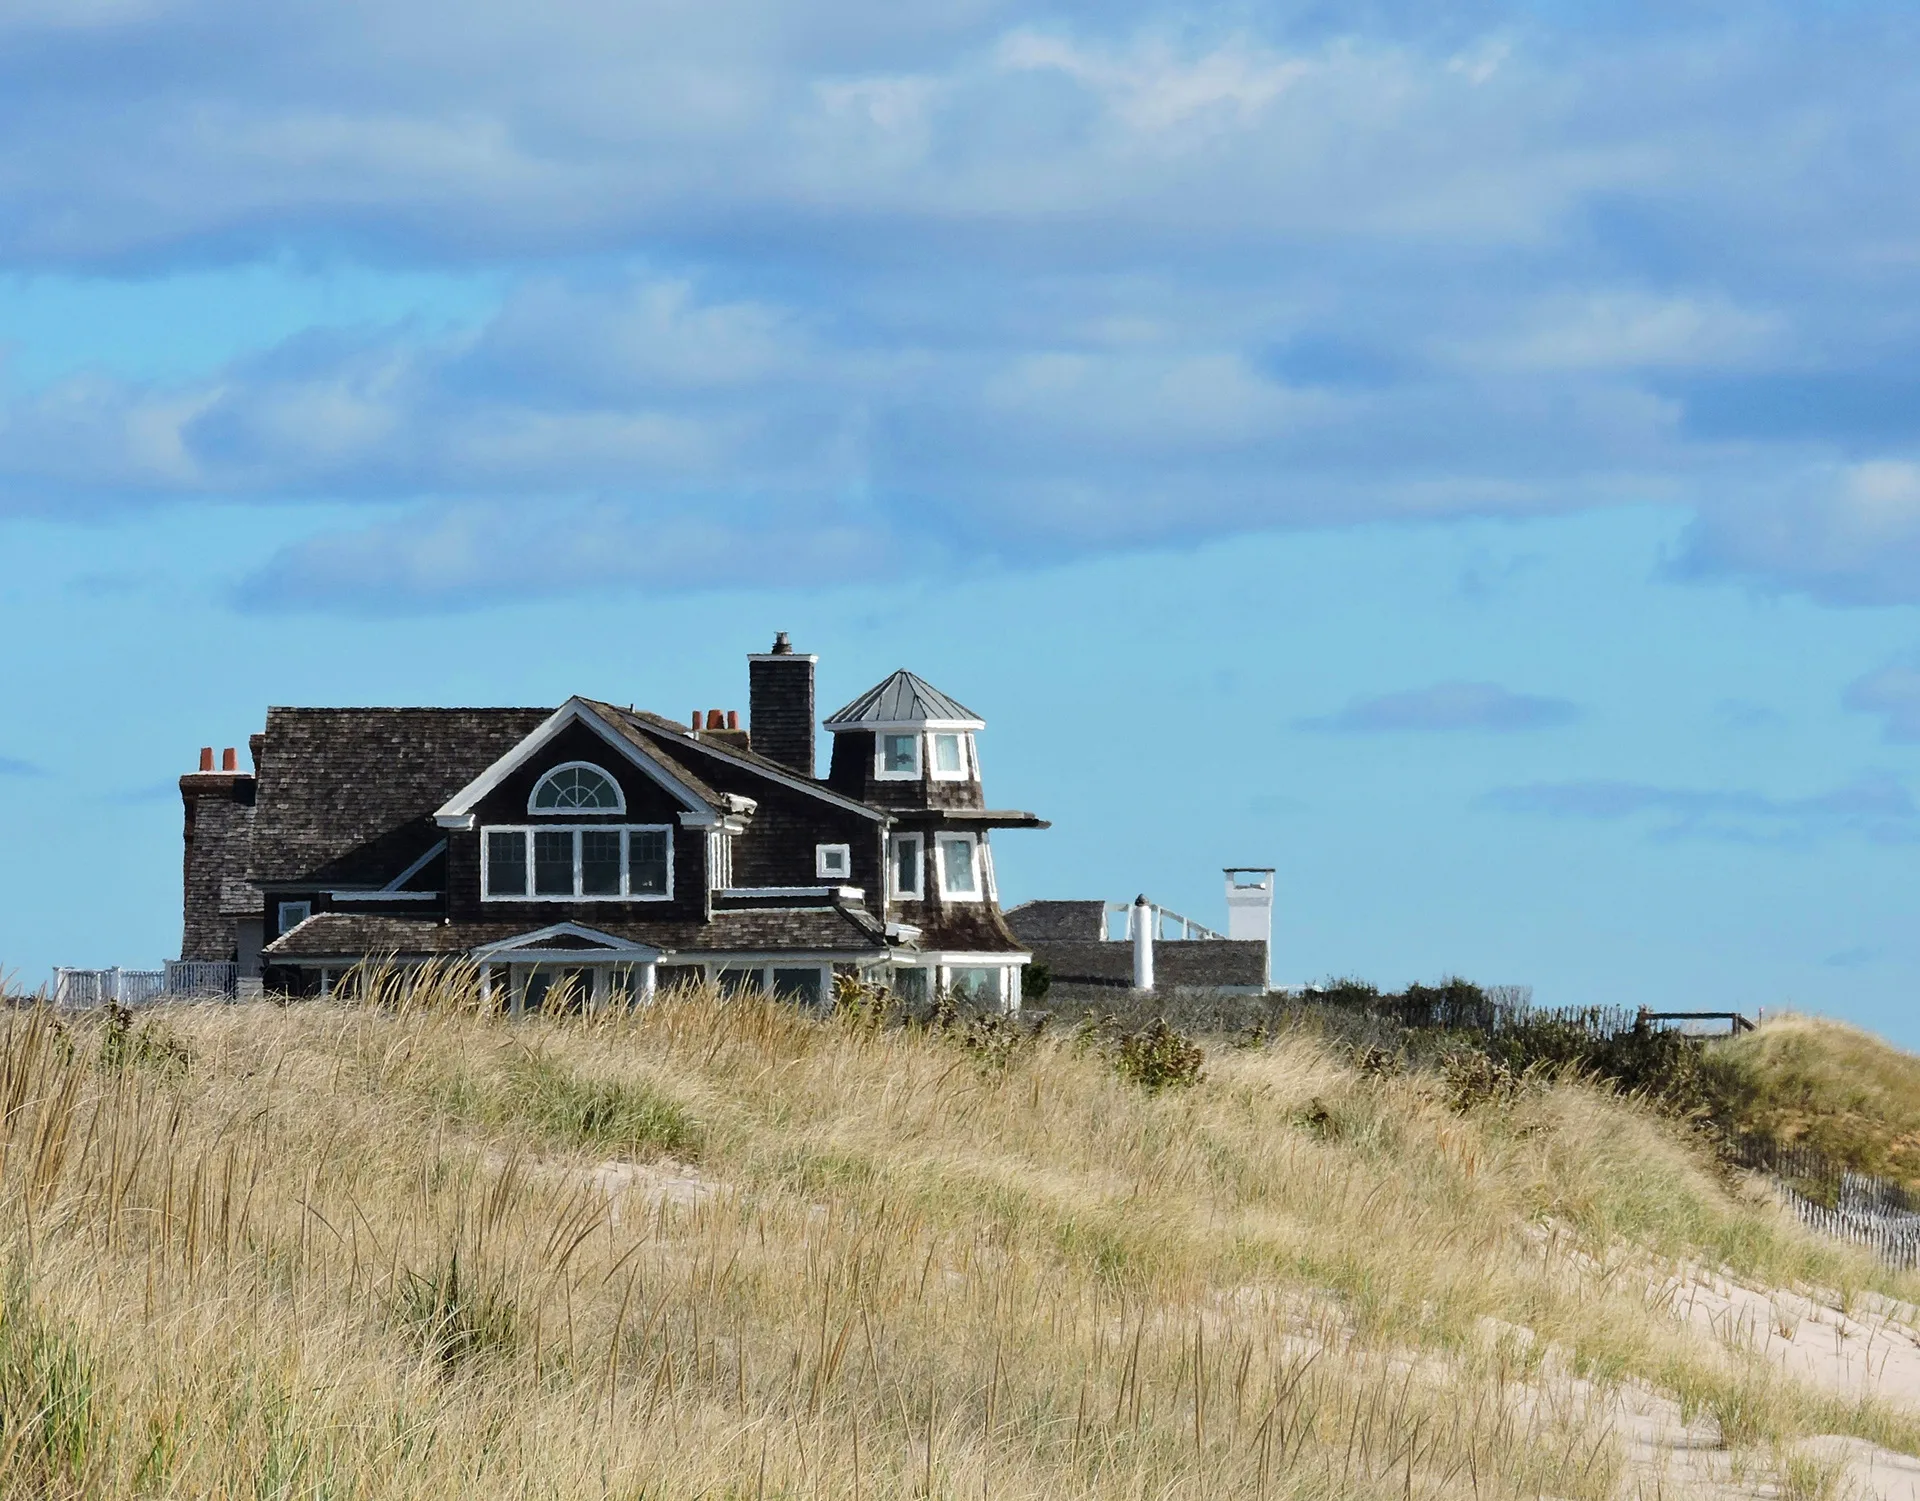
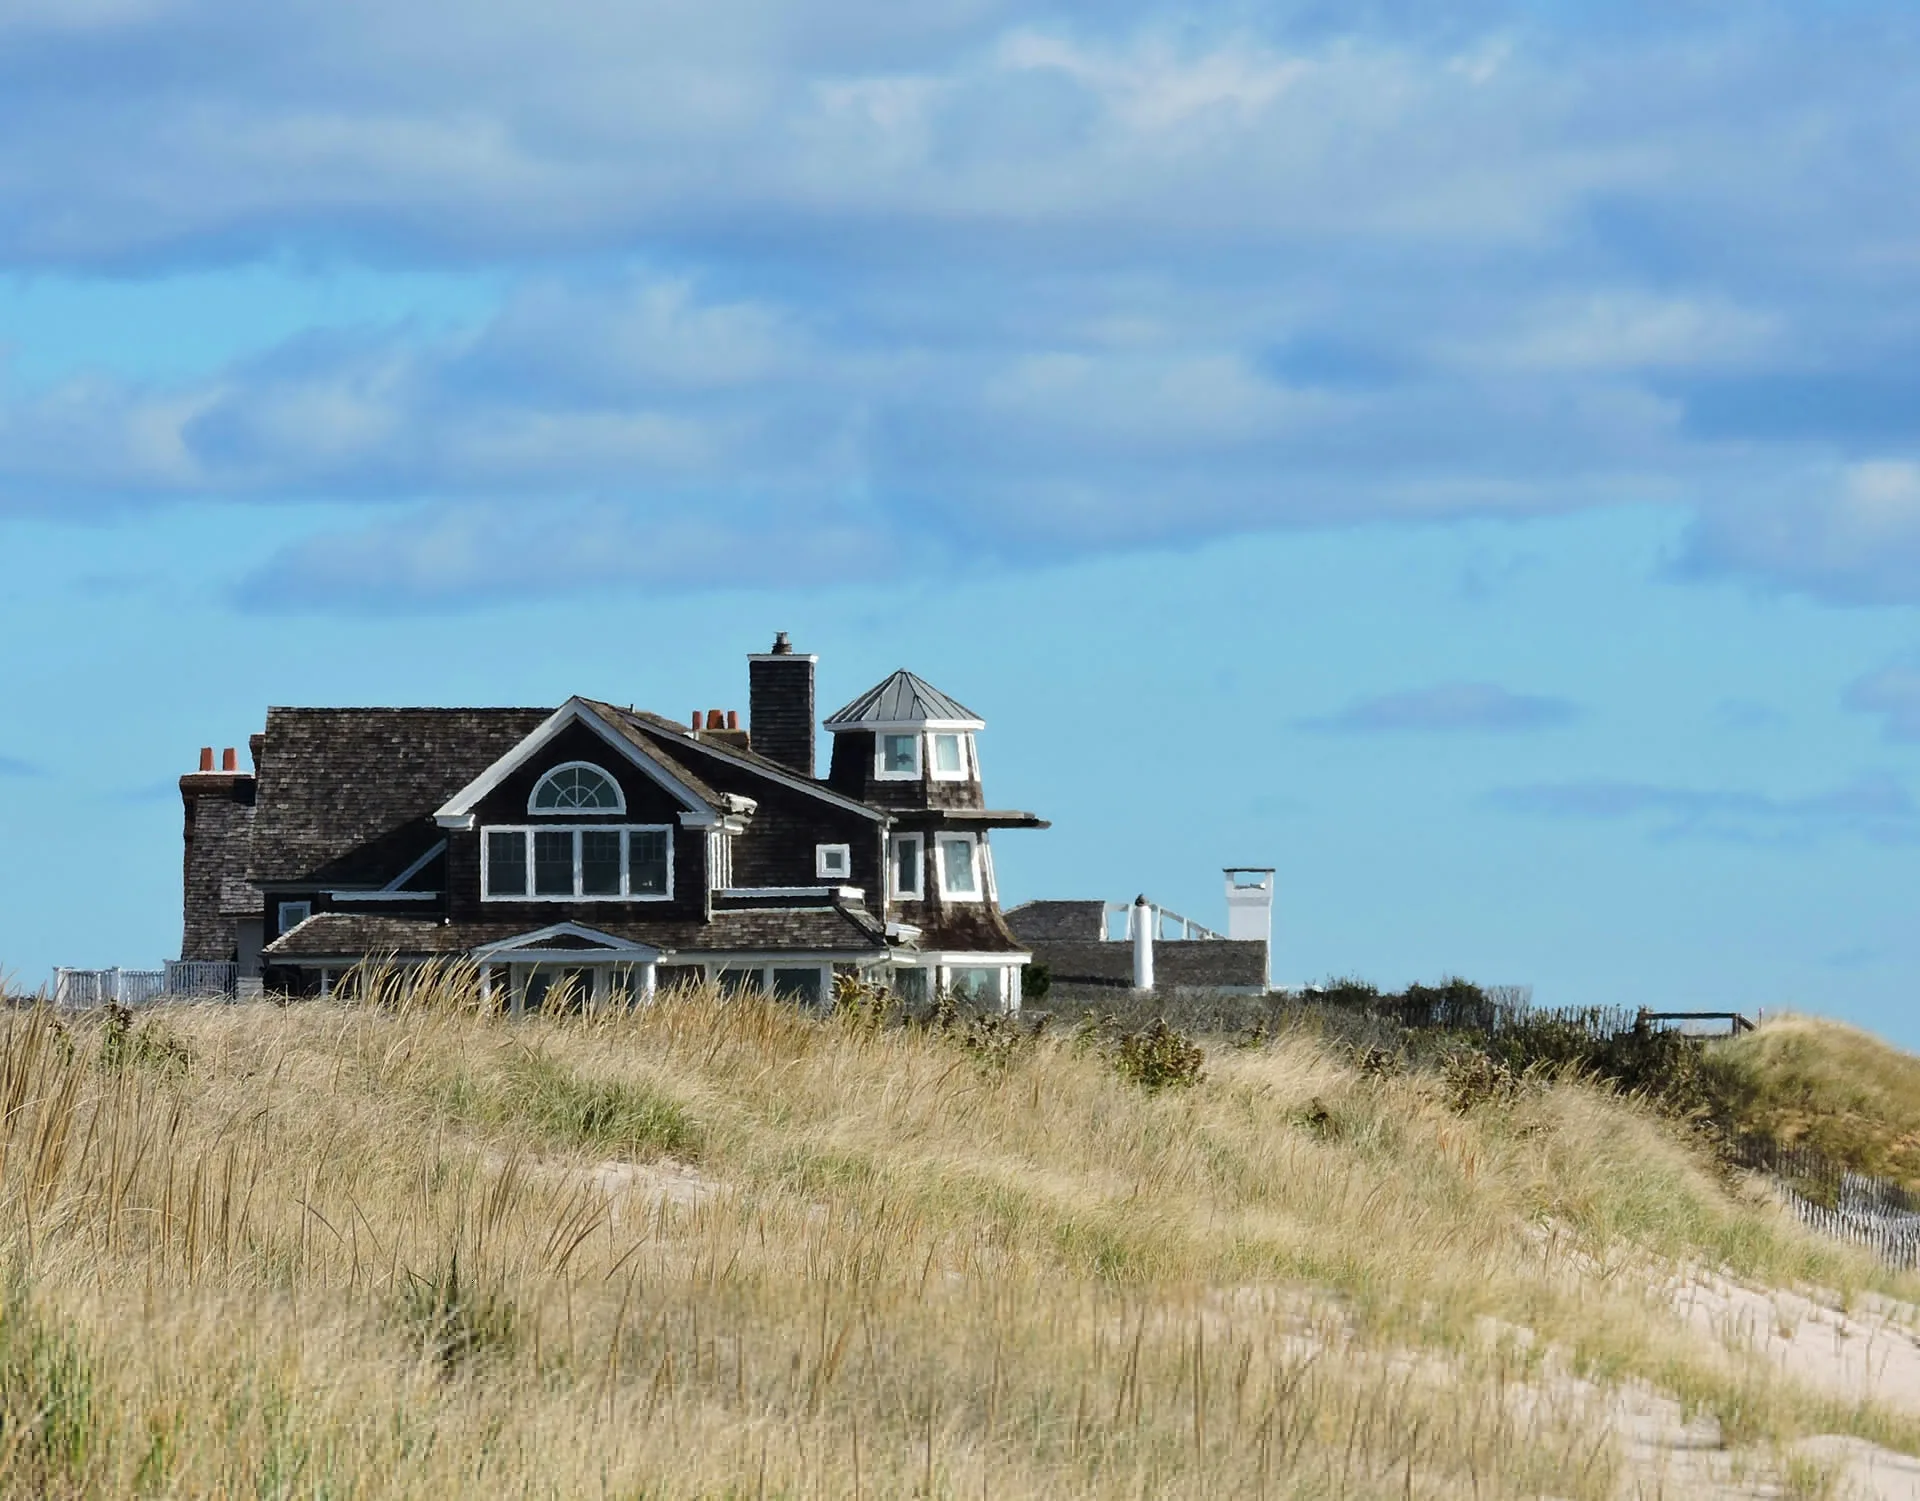
Masthead video: H.264 first with explicit codecs (Safari); churn-free asset build
Safari picked the VP9 WebM and sat on a grey frame; the MP4 is now the first
source and both carry codec strings. The build converts straight from the raw/
mirror into a cache and copies only changed outputs into site/, so a rebuild no
longer rewrites thousands of files (which was keeping iCloud Drive busy). Every
original now lives in raw/ and downloads are size-checked.

Claude-Session: https://claude.ai/code/session_01PHUrGdYDtvHweuybAXdQsD

Changed region(s): [[0.0, 0.8581, 0.8125, 1.0], [0.875, 0.9194, 0.9062, 0.95], [0.6875, 0.8581, 0.7188, 0.8887]]

diff --git a/site/404.html b/site/404.html
@@ -48,7 +48,7 @@
           </div>
     </div>
   </div>
-          <div class="masthead js-masthead-fixed" data-context="page.masthead"  data-hover-hint="mastheadOptions"><video class="masthead-video" autoplay muted loop playsinline preload="auto" poster="/assets/066337a7-12de-4ef6-b197-d1ab17f41287_rwc_10x0x1338x555x4096.webp" width="1338" height="554"><source src="/assets/066337a7-12de-4ef6-b197-d1ab17f41287_rwc_10x0x1338x555x4096.webm" type="video/webm" /><source src="/assets/066337a7-12de-4ef6-b197-d1ab17f41287_rwc_10x0x1338x555x4096.mp4" type="video/mp4" /></video>
+          <div class="masthead js-masthead-fixed" data-context="page.masthead"  data-hover-hint="mastheadOptions"><video class="masthead-video" autoplay muted loop playsinline preload="auto" poster="/assets/066337a7-12de-4ef6-b197-d1ab17f41287_rwc_10x0x1338x555x4096.webp" width="1338" height="554"><source src="/assets/066337a7-12de-4ef6-b197-d1ab17f41287_rwc_10x0x1338x555x4096.mp4" type='video/mp4; codecs="avc1.640028"' /><source src="/assets/066337a7-12de-4ef6-b197-d1ab17f41287_rwc_10x0x1338x555x4096.webm" type='video/webm; codecs="vp9"' /></video>
             <div class="masthead-contents">
               <div class="masthead-text js-masthead-text">
                 <div data-context="page.masthead" data-hover-hint="mastheadTitle"><h1 decorator="inlineTextEditable" contenteditable="false" class="js-inline-text-editable preserve-whitespace main-text rich-text module-text" data-text-keypath="customizations.masthead.title.text" value="Max Hammons">Max Hammons</h1></div>

diff --git a/site/index.html b/site/index.html
@@ -48,7 +48,7 @@
           </div>
     </div>
   </div>
-          <div class="masthead js-masthead-fixed" data-context="page.masthead"  data-hover-hint="mastheadOptions"><video class="masthead-video" autoplay muted loop playsinline preload="auto" poster="/assets/066337a7-12de-4ef6-b197-d1ab17f41287_rwc_10x0x1338x555x4096.webp" width="1338" height="554"><source src="/assets/066337a7-12de-4ef6-b197-d1ab17f41287_rwc_10x0x1338x555x4096.webm" type="video/webm" /><source src="/assets/066337a7-12de-4ef6-b197-d1ab17f41287_rwc_10x0x1338x555x4096.mp4" type="video/mp4" /></video>
+          <div class="masthead js-masthead-fixed" data-context="page.masthead"  data-hover-hint="mastheadOptions"><video class="masthead-video" autoplay muted loop playsinline preload="auto" poster="/assets/066337a7-12de-4ef6-b197-d1ab17f41287_rwc_10x0x1338x555x4096.webp" width="1338" height="554"><source src="/assets/066337a7-12de-4ef6-b197-d1ab17f41287_rwc_10x0x1338x555x4096.mp4" type='video/mp4; codecs="avc1.640028"' /><source src="/assets/066337a7-12de-4ef6-b197-d1ab17f41287_rwc_10x0x1338x555x4096.webm" type='video/webm; codecs="vp9"' /></video>
             <div class="masthead-contents">
               <div class="masthead-text js-masthead-text">
                 <div data-context="page.masthead" data-hover-hint="mastheadTitle"><h1 decorator="inlineTextEditable" contenteditable="false" class="js-inline-text-editable preserve-whitespace main-text rich-text module-text" data-text-keypath="customizations.masthead.title.text" value="Max Hammons">Max Hammons</h1></div>

diff --git a/site/portfolio/index.html b/site/portfolio/index.html
@@ -48,7 +48,7 @@
           </div>
     </div>
   </div>
-          <div class="masthead js-masthead-fixed" data-context="page.masthead"  data-hover-hint="mastheadOptions"><video class="masthead-video" autoplay muted loop playsinline preload="auto" poster="/assets/066337a7-12de-4ef6-b197-d1ab17f41287_rwc_10x0x1338x555x4096.webp" width="1338" height="554"><source src="/assets/066337a7-12de-4ef6-b197-d1ab17f41287_rwc_10x0x1338x555x4096.webm" type="video/webm" /><source src="/assets/066337a7-12de-4ef6-b197-d1ab17f41287_rwc_10x0x1338x555x4096.mp4" type="video/mp4" /></video>
+          <div class="masthead js-masthead-fixed" data-context="page.masthead"  data-hover-hint="mastheadOptions"><video class="masthead-video" autoplay muted loop playsinline preload="auto" poster="/assets/066337a7-12de-4ef6-b197-d1ab17f41287_rwc_10x0x1338x555x4096.webp" width="1338" height="554"><source src="/assets/066337a7-12de-4ef6-b197-d1ab17f41287_rwc_10x0x1338x555x4096.mp4" type='video/mp4; codecs="avc1.640028"' /><source src="/assets/066337a7-12de-4ef6-b197-d1ab17f41287_rwc_10x0x1338x555x4096.webm" type='video/webm; codecs="vp9"' /></video>
             <div class="masthead-contents">
               <div class="masthead-text js-masthead-text">
                 <div data-context="page.masthead" data-hover-hint="mastheadTitle"><h1 decorator="inlineTextEditable" contenteditable="false" class="js-inline-text-editable preserve-whitespace main-text rich-text module-text" data-text-keypath="customizations.masthead.title.text" value="Max Hammons">Max Hammons</h1></div>

diff --git a/site/reel/index.html b/site/reel/index.html
@@ -23,7 +23,7 @@
     
   <script type="speculationrules">{"prefetch":[{"source":"document","where":{"selector_matches":"a.project-cover, nav a"},"eagerness":"moderate"}]}</script>
 </head>
-  <body class="transition-enabled"><video class="page-video" autoplay muted loop playsinline preload="auto" poster="/assets/767f2236-537f-45e1-b028-b42ceebb1bfa_rwc_9x0x1492x915x4096.webp" width="1500" height="914"><source src="/assets/767f2236-537f-45e1-b028-b42ceebb1bfa_rwc_9x0x1492x915x4096.webm" type="video/webm" /><source src="/assets/767f2236-537f-45e1-b028-b42ceebb1bfa_rwc_9x0x1492x915x4096.mp4" type="video/mp4" /></video>    <section class="splash centered e2e-site-content">
+  <body class="transition-enabled"><video class="page-video" autoplay muted loop playsinline preload="auto" poster="/assets/767f2236-537f-45e1-b028-b42ceebb1bfa_rwc_9x0x1492x915x4096.webp" width="1500" height="914"><source src="/assets/767f2236-537f-45e1-b028-b42ceebb1bfa_rwc_9x0x1492x915x4096.mp4" type='video/mp4; codecs="avc1.640028"' /><source src="/assets/767f2236-537f-45e1-b028-b42ceebb1bfa_rwc_9x0x1492x915x4096.webm" type='video/webm; codecs="vp9"' /></video>    <section class="splash centered e2e-site-content">
       <div class="outer-wrap">
         <div class="centered-content-wrap js-site-wrap splash-modules">
       <div class='page-background-video page-background-video-with-panel'>

diff --git a/site/tcwglobal/index.html b/site/tcwglobal/index.html
@@ -145,7 +145,7 @@ padding-bottom: px;
   
 
   
-     <video class="module-video" autoplay muted loop playsinline preload="auto" poster="/assets/892f9b42-e0ef-4649-b7a8-d9074819366a_rw_1920.webp" width="1920" height="1036"><source src="/assets/892f9b42-e0ef-4649-b7a8-d9074819366a_rw_1920.webm" type="video/webm" /><source src="/assets/892f9b42-e0ef-4649-b7a8-d9074819366a_rw_1920.mp4" type="video/mp4" /></video>
+     <video class="module-video" autoplay muted loop playsinline preload="auto" poster="/assets/892f9b42-e0ef-4649-b7a8-d9074819366a_rw_1920.webp" width="1920" height="1036"><source src="/assets/892f9b42-e0ef-4649-b7a8-d9074819366a_rw_1920.mp4" type='video/mp4; codecs="avc1.640028"' /><source src="/assets/892f9b42-e0ef-4649-b7a8-d9074819366a_rw_1920.webm" type='video/webm; codecs="vp9"' /></video>
   
 
 </div>

diff --git a/site/kindred-living/index.html b/site/kindred-living/index.html
@@ -176,7 +176,7 @@ padding-bottom: px;
   
 
   
-     <video class="module-video" autoplay muted loop playsinline preload="auto" poster="/assets/c9f68dcb-e185-444c-aba8-b6c64b0791c0_rw_1920.webp" width="1500" height="740"><source src="/assets/c9f68dcb-e185-444c-aba8-b6c64b0791c0_rw_1920.webm" type="video/webm" /><source src="/assets/c9f68dcb-e185-444c-aba8-b6c64b0791c0_rw_1920.mp4" type="video/mp4" /></video>
+     <video class="module-video" autoplay muted loop playsinline preload="auto" poster="/assets/c9f68dcb-e185-444c-aba8-b6c64b0791c0_rw_1920.webp" width="1500" height="740"><source src="/assets/c9f68dcb-e185-444c-aba8-b6c64b0791c0_rw_1920.mp4" type='video/mp4; codecs="avc1.640028"' /><source src="/assets/c9f68dcb-e185-444c-aba8-b6c64b0791c0_rw_1920.webm" type='video/webm; codecs="vp9"' /></video>
   
 
 </div>

diff --git a/build.py b/build.py
@@ -30,7 +30,7 @@ ASSETS = os.path.join(OUT, "assets")
 FONTS_SRC = os.path.join(ROOT, "fonts")
 THEME = os.path.join(ROOT, "theme")
 PAGES_JSON = os.path.join(ROOT, "content", "pages")
-DERIVED = os.path.join(RAW, "derived")  # WebP / video conversion cache (git-ignored)
+DERIVED = os.path.join(RAW, "derived.nosync")  # WebP / video conversion cache (git-ignored; .nosync keeps iCloud away)
 FONT_PRELOAD = (
     '<link rel="preload" href="/fonts/vcsm-n4.woff2" as="font" type="font/woff2" crossorigin />\n'
     '    <link rel="preload" href="/fonts/vcsm-n7.woff2" as="font" type="font/woff2" crossorigin />'
@@ -108,12 +108,32 @@ def raw_cdn_path(url):
     return None
 
 
+def place(src, dest):
+    """Copy only when the destination is missing or differs in size: an unchanged site/ means
+    nothing for iCloud or git to churn on."""
+    if not os.path.exists(dest) or os.path.getsize(dest) != os.path.getsize(src):
+        shutil.copyfile(src, dest)
+
+
+def mirror_path(url):
+    """Where a CDN original is kept in raw/ when the wget mirror did not have it."""
+    rel = urllib.parse.urlsplit(url).path.lstrip("/")
+    path = os.path.join(RAW_CDN, rel)
+    os.makedirs(os.path.dirname(path), exist_ok=True)
+    return path
+
+
 def fetch(url, dest):
     req = urllib.request.Request(
         url, headers={"User-Agent": UA, "Referer": "https://maxhammons.com/"}
     )
     with urllib.request.urlopen(req, timeout=60) as r, open(dest + ".part", "wb") as f:
+        expected = int(r.headers.get("Content-Length") or 0)
         shutil.copyfileobj(r, f)
+    got = os.path.getsize(dest + ".part")
+    if expected and got != expected:  # a reset connection must not leave a truncated original
+        os.remove(dest + ".part")
+        raise OSError(f"truncated download: {got} of {expected} bytes")
     os.replace(dest + ".part", dest)
 
 
@@ -203,8 +223,8 @@ def video_tag(v, cls):
     return (
         f'<video class="{cls}" autoplay muted loop playsinline preload="auto" '
         f'poster="/assets/{v["poster"]}" width="{v["w"]}" height="{v["h"]}">'
-        f'<source src="/assets/{v["webm"]}" type="video/webm" />'
-        f'<source src="/assets/{v["mp4"]}" type="video/mp4" /></video>'
+        f'<source src="/assets/{v["mp4"]}" type=\'video/mp4; codecs="avc1.640028"\' />'
+        f'<source src="/assets/{v["webm"]}" type=\'video/webm; codecs="vp9"\' /></video>'
     )
 
 
@@ -297,19 +317,12 @@ def main():
     for f in os.listdir(ASSETS):
         if f not in by_name:
             os.remove(os.path.join(ASSETS, f))
-    todo = []
-    for name, u in by_name.items():
-        dest = os.path.join(ASSETS, name)
-        if os.path.exists(dest):
-            continue
-        src = raw_cdn_path(u)
-        if src:
-            shutil.copyfile(src, dest)
-        else:
-            todo.append((u, dest))
+    # every original lives in the raw/ mirror first (Adobe's CDN will not be there forever),
+    # then is copied into site/assets
+    todo = [(u, mirror_path(u)) for u in by_name.values() if raw_cdn_path(u) is None]
     failed = []
     if todo:
-        print(f"downloading {len(todo)} assets")
+        print(f"downloading {len(todo)} originals into raw/")
         with cf.ThreadPoolExecutor(8) as ex:
             futs = {ex.submit(fetch, u, d): u for u, d in todo}
             for f in cf.as_completed(futs):
@@ -319,16 +332,22 @@ def main():
                     failed.append((futs[f], str(e)))
     for u, e in failed:
         print("FAILED", u, e)
+    sources = {name: raw_cdn_path(u) for name, u in by_name.items()}
 
-    # 2b. WebP for every image, video for every animated GIF (cached in raw/derived)
-    renames, videos = optimise(ASSETS, DERIVED, list(by_name))
+    # 2b. WebP for every image, video for every animated GIF, converted from the mirror into the
+    # cache; anything that is not an image (css is handled separately) is copied as is
+    renames, videos = optimise(sources, DERIVED)
+    for name, src in sources.items():
+        dest = os.path.join(ASSETS, name)
+        if src and name not in renames and name not in videos and not os.path.exists(dest):
+            shutil.copyfile(src, dest)
     for name, v in videos.items():
         v["masthead"] = name in css_src["home"]
         v["page"] = name in css_src["reel"]
         for key in ("mp4", "webm", "poster"):
-            shutil.copyfile(os.path.join(DERIVED, v[key]), os.path.join(ASSETS, v[key]))
+            place(os.path.join(DERIVED, v[key]), os.path.join(ASSETS, v[key]))
     for new_name in renames.values():
-        shutil.copyfile(os.path.join(DERIVED, new_name), os.path.join(ASSETS, new_name))
+        place(os.path.join(DERIVED, new_name), os.path.join(ASSETS, new_name))
 
     def swap_images(text):
         return re.sub(

diff --git a/optimize.py b/optimize.py
@@ -10,7 +10,10 @@ import concurrent.futures as cf
 import os
 import subprocess
 
-from PIL import Image, ImageOps
+from PIL import Image, ImageFile, ImageOps
+
+# a few CDN JPEGs end a couple of bytes short of what Pillow expects; they decode fine
+ImageFile.LOAD_TRUNCATED_IMAGES = True
 
 WEBP_QUALITY = 82
 WEBP_METHOD = 4
@@ -26,7 +29,7 @@ def is_animated(path):
 
 
 def to_webp(src, dst):
-    if os.path.exists(dst) and os.path.getmtime(dst) >= os.path.getmtime(src):
+    if os.path.exists(dst) and os.path.getsize(dst) > 0:  # originals never change; the cache is by name
         return dst
     with Image.open(src) as im:
         im = ImageOps.exif_transpose(im)
@@ -52,7 +55,8 @@ def to_video(src, base):
     even = "scale=trunc(iw/2)*2:trunc(ih/2)*2"
     if not os.path.exists(mp4):
         subprocess.run(["ffmpeg", "-y", "-loglevel", "error", "-i", src, "-vf", even, "-movflags", "+faststart",
-                        "-pix_fmt", "yuv420p", "-c:v", "libx264", "-crf", "30", "-preset", "medium", "-an", mp4], check=True)
+                        "-pix_fmt", "yuv420p", "-c:v", "libx264", "-profile:v", "high", "-level", "4.0",
+                        "-crf", "30", "-preset", "medium", "-an", mp4], check=True)
     if not os.path.exists(webm):
         subprocess.run(["ffmpeg", "-y", "-loglevel", "error", "-i", src, "-vf", even, "-pix_fmt", "yuv420p", "-c:v", "libvpx-vp9", "-b:v", "0",
                         "-crf", "36", "-deadline", "good", "-cpu-used", "2", "-row-mt", "1", "-an", webm], check=True)
@@ -62,17 +66,16 @@ def to_video(src, base):
     return mp4, webm, w, h
 
 
-def optimise(assets_dir, cache_dir, names):
-    """names: iterable of asset basenames in assets_dir.
+def optimise(sources, cache_dir):
+    """sources: {asset basename: path of the original (or None if unavailable)}.
     Returns (renames, videos): renames maps an image basename to its .webp basename;
     videos maps an animated gif basename to {mp4, webm, poster, w, h} basenames."""
     os.makedirs(cache_dir, exist_ok=True)
     renames, videos, jobs = {}, {}, []
-    for name in names:
+    for name, src in sources.items():
         stem, ext = os.path.splitext(name)
-        if ext.lower() not in RASTER:
+        if ext.lower() not in RASTER or not src:
             continue
-        src = os.path.join(assets_dir, name)
         if ext.lower() == ".gif" and is_animated(src):
             mp4, webm, w, h = to_video(src, os.path.join(cache_dir, stem))
             post = poster(src, os.path.join(cache_dir, stem + ".webp"))
